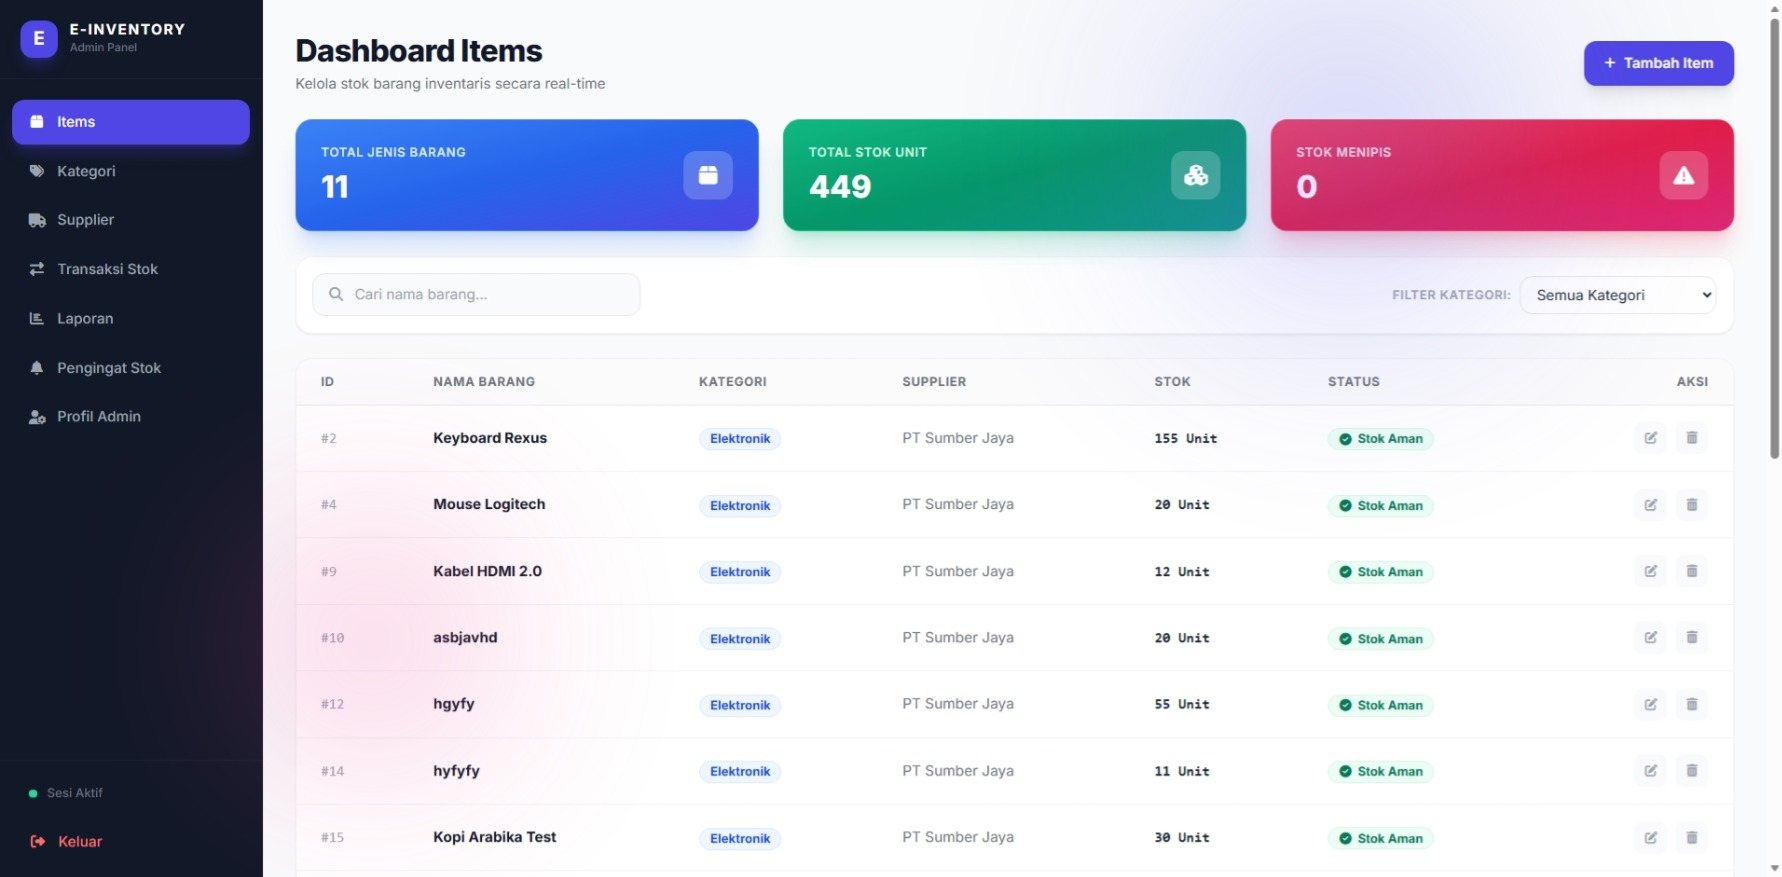
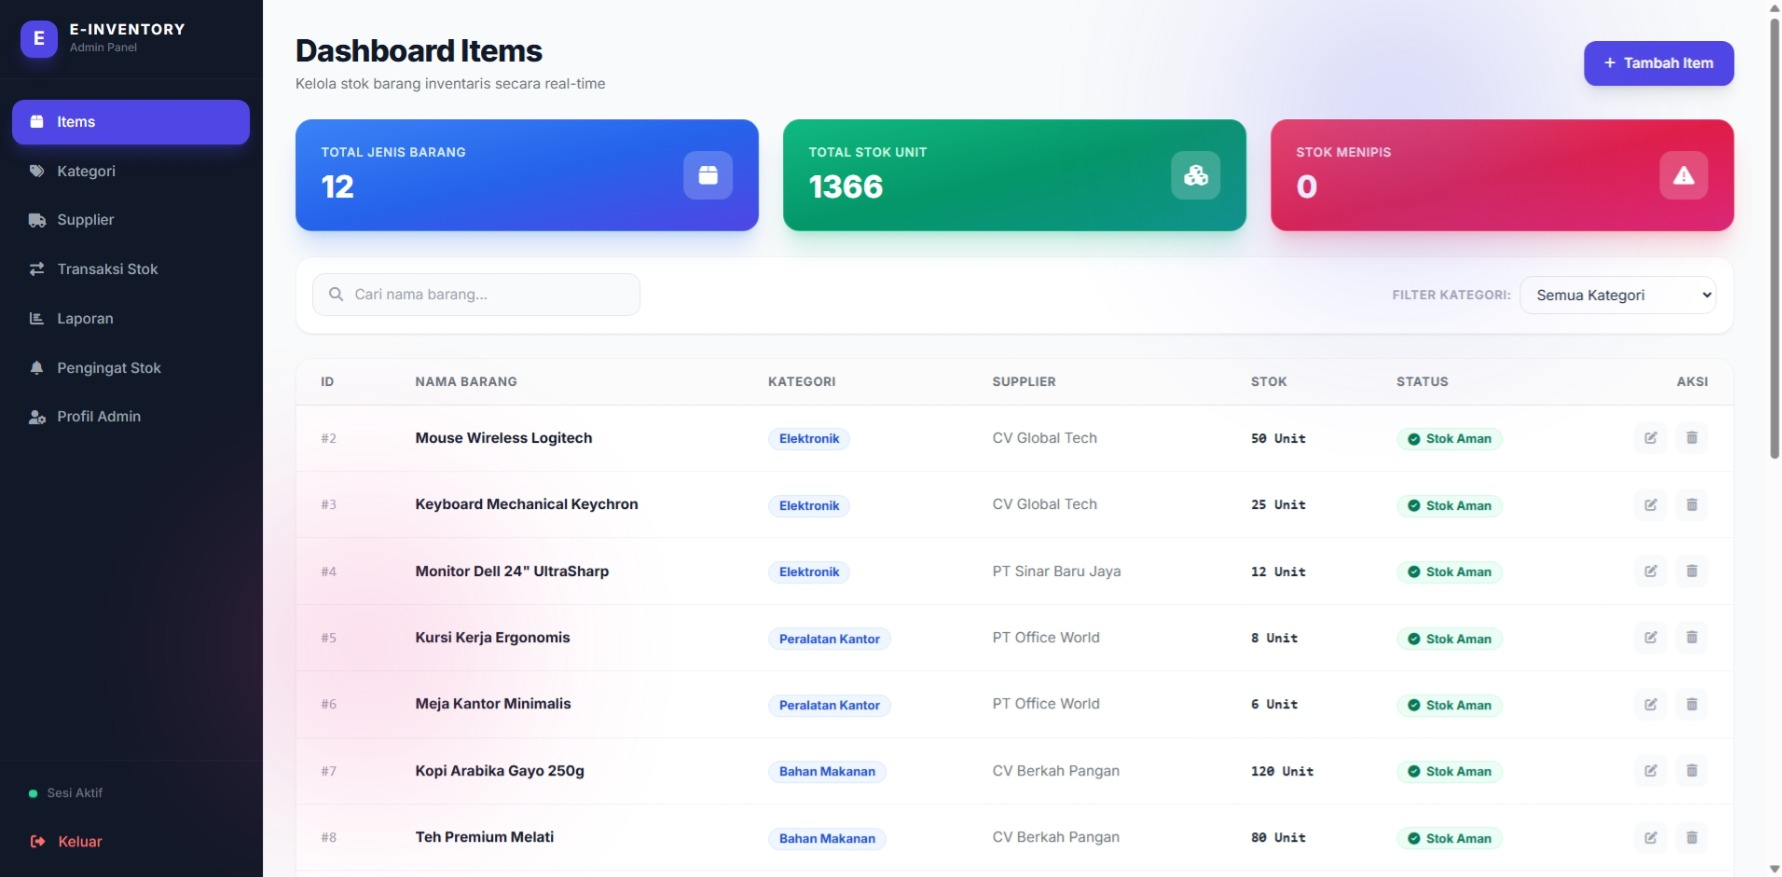
menambahkan link

diff --git a/README.md b/README.md
@@ -4,7 +4,7 @@
 - **NIM:** 312210368
 - **Mata Kuliah:** Pemrograman Web 2 (UAS)
 - **Link Demo:** [http://uasweb2.infinityfree.io/](http://uasweb2.infinityfree.io/)
-- **Link Video YouTube:** 
+- **Link Video YouTube:** https://youtu.be/pl76_OyUBDk
 
 ---
 